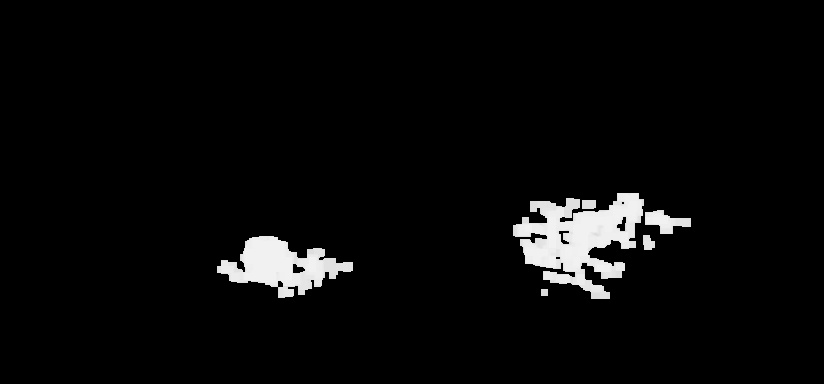
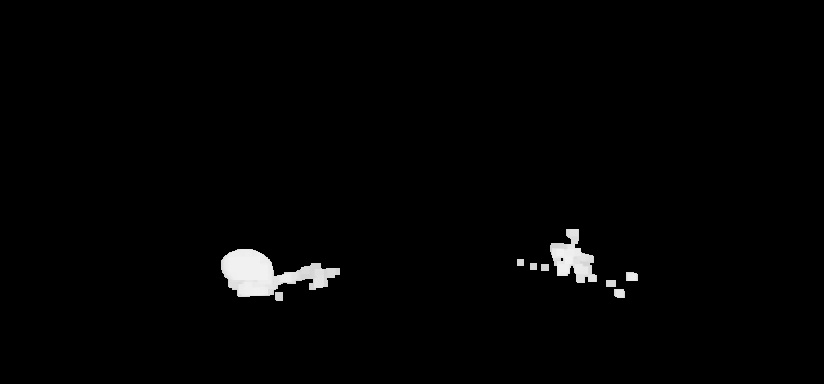
Egg detection

Changed region(s): [[0.6068, 0.5, 0.8495, 0.7812], [0.2427, 0.5938, 0.4248, 0.7812], [0.6371, 0.75, 0.6675, 0.7812]]

diff --git a/eggcounter/__init__.py b/eggcounter/__init__.py
@@ -6,6 +6,7 @@ import numpy
 from matplotlib import pyplot
 
 MIN_CAREA = 700
+#MIN_CAREA = 780
 MAX_CAREA = 2100
 
 IMAGE_SIZE = (1024, 768)
@@ -59,127 +60,60 @@ def alternate(images, original=None):
         else:
             break
 
-def scan_image(filename, export_file=None, debug=False, verbose=False, doors_open=1, min_carea=MIN_CAREA, wsize=(30, 82), hsize=(20, 62), threshold_limits=(210, 255)):
-#def scan_image(filename, debug=False, verbose=False, doors_open=1, min_carea=MIN_CAREA, wsize=(12, 60), hsize=(12, 60)):
+def scan_image(filename, export_file=None, debug=False, verbose=False, min_carea=MIN_CAREA, wsize=(30, 82), hsize=(20, 62), threshold_limits=(210, 255)):
+#def scan_image(filename, debug=False, verbose=False, min_carea=MIN_CAREA, wsize=(12, 60), hsize=(12, 60)):
 
     nest_index = None
 
     if verbose:
-        print('\nMin contour area: %i, width size: %i, %i, height size: %i, %i' % (min_carea, wsize[0], wsize[1], hsize[0], hsize[1]))
+        print('\nParameters: Min contour area: %i, width size: %i, %i, height size: %i, %i' % (min_carea, wsize[0], wsize[1], hsize[0], hsize[1]))
 
+    def threshold(img, limits=(210, 255)):
+        #_, thresh = cv2.threshold(img, 235, 255, cv2.THRESH_TOZERO)
+        _, thresh = cv2.threshold(img, limits[0], limits[1], cv2.THRESH_TOZERO)
+        return thresh
+
+    def erode(img):
+        x = 8
+        k0 = numpy.ones((x, x), numpy.uint8)
+        return cv2.erode(img, k0, iterations=1)
+
+    def dilate(img):
+        x = 7
+        k0 = numpy.ones((x, x), numpy.uint8)
+        return cv2.dilate(img, k0, iterations=1)
+
+    img_original = cv2.imread(filename)
     while True:
-        img = cv2.imread(filename)
-        out = copy.copy(img)
-        img = cv2.cvtColor(img, cv2.COLOR_BGR2GRAY)
+        out = copy.copy(img_original)
+        img = cv2.cvtColor(img_original, cv2.COLOR_BGR2GRAY)
         #imgray = cv2.cvtColor(img,cv2.COLOR_BGR2HSV)
 
+        # Crop image on nest
         img = img[0:IMAGE_SIZE[1] / 2, IMAGE_SUBSTRACT_WIDTH / 2:IMAGE_SIZE[0] - IMAGE_SUBSTRACT_WIDTH / 2]
 
         '''
         #imgray = cv2.medianBlur(imgray, 7)
-
         #cv2.imshow('image', imgray)
         #cv2.waitKey(0)
-
-        #kernel = numpy.ones((200,200),numpy.uint8)
-
-        #erosion = cv2.erode(imgray,kernel,iterations = 1)
-
         #imgSplit = cv2.split(im)
-
-        #ret,thresh = cv2.threshold(img,127,255,cv2.THRESH_TOZERO_INV)
-        #ret,thresh = cv2.threshold(imgray,127,255,1)
-        #ret,thresh = cv2.threshold(imgray,1,50,cv2.THRESH_TOZERO)
-        #ret,thresh = cv2.threshold(imgSplit[1],100,100,cv2.THRESH_TOZERO)
-
-        k0 = numpy.ones((13, 13), numpy.uint8)
-        #k0 = numpy.ones((5, 5), numpy.uint8)
-        k1 = numpy.ones((12, 12), numpy.uint8)
-        #k1 = numpy.ones((5, 5), numpy.uint8)
-        #i1 = cv2.dilate(imgray, kernel, iterations = 1)
-
-        #kernel = cv2.getStructuringElement(cv2.MORPH_ELLIPSE,(5,5))
-        #i2 = cv2.dilate(imgray, kernel, iterations = 1)
-
-        #alternate([ i1, i2 ], img)
-
-        eroded = cv2.erode(imgray, kernel, iterations = 1)
-        dilated = cv2.dilate(imgray, kernel, iterations = 1)
-
-        eroded_dilated = cv2.dilate(eroded, kernel, iterations = 1)
-
         opened = cv2.morphologyEx(imgray, cv2.MORPH_OPEN, kernel)
-
-        alternate([ imgray, eroded, dilated, eroded_dilated, opened ], img)
-        return 0
         '''
 
         #alternate([ cv2.erode(imgray, k0, iterations=1), imgray ])
 
-        '''
-        doors_open = False
-
-        if doors_open:
-            # Porte de droite ouverte:
-            ret, thresh = cv2.threshold(imgray, 100, 100, cv2.THRESH_TOZERO)
-        else:
-            # 2 portes ouvertes:
-            #ret, thresh = cv2.threshold(imgray, 80, 200, cv2.THRESH_TOZERO_INV)
-            ret, thresh = cv2.threshold(imgray, 80, 90, cv2.THRESH_TOZERO_INV)
-            if verbose:
-                print('Highlight actived !')
-        '''
-
-        def threshold(img, limits=(210, 255)):
-            #_, thresh = cv2.threshold(img, 235, 255, cv2.THRESH_TOZERO)
-            _, thresh = cv2.threshold(img, limits[0], limits[1], cv2.THRESH_TOZERO)
-            return thresh
-
-        def erode(img):
-            x = 8
-            k0 = numpy.ones((x, x), numpy.uint8)
-            return cv2.erode(img, k0, iterations=1)
-
-        def dilate(img):
-            x = 7
-            k0 = numpy.ones((x, x), numpy.uint8)
-            return cv2.dilate(img, k0, iterations=1)
-
         
-        '''
-        imgray = cv2.erode(imgray, k0, iterations=1)
-        imgray = cv2.dilate(imgray, k1, iterations=1)
-        '''
-
         img = threshold(img, threshold_limits)
+        #img = threshold(img, (230, 255))
 
         img = erode(img)
         img = dilate(img)
 
+        #cv2.imwrite('debug.jpg', img)
+        #return 0, None
 
-        thresh = img
-
-        #_, thresh = cv2.threshold(imgray, 210, 255, cv2.THRESH_TOZERO)
-
-        #ret, thresh = cv2.threshold(imgray, 10, 100, cv2.THRESH_TOZERO_INV)
-
-        #ret,thresh = cv2.threshold(imgray,150,250,cv2.THRESH_)
-
-        #element = cv2.getStructuringElement(cv2.MORPH_ELLIPSE,(30,30))
-
-
-        # Otsu's thresholding after Gaussian filtering
-        #blur = cv2.GaussianBlur(imgray,(5,5),0)
-        #ret3,thresh = cv2.threshold(blur,0,255,cv2.THRESH_BINARY+cv2.THRESH_OTSU)
-
-        #print 'Image gray'
-        #if verbose:
-        #    #cv2.imshow('image', thresh)
-        #    cv2.imshow('image', imgray)
-        #    cv2.waitKey(0)
-
-        #out = img
-        #out = thresh
+        if debug:
+            cv2.imwrite('debug.jpg', img)
 
         egg_count = 0
         index = 0
@@ -193,14 +127,20 @@ def scan_image(filename, export_file=None, debug=False, verbose=False, doors_ope
         method = cv2.CHAIN_APPROX_SIMPLE
         #method = cv2.CHAIN_APPROX_TC89_L1
         #method = cv2.CHAIN_APPROX_TC89_KCOS
-        contours, h = cv2.findContours(thresh, mode, method)
+        contours, h = cv2.findContours(img, mode, method)
 
         #print('contour:', len(contours))
-        if len(contours) > 15: #04
-            #print('risque de foirage !')
+        contour_limit = 15
+        approx_poly_length = (5, 21)
+
+        #contour_limit = 18
+        if len(contours) > contour_limit: #04
+            if debug:
+                print('Contour length (%i) > limit (%i), thresholds: %s' % (len(contours), contour_limit, str(threshold_limits)))
             mint, maxt = threshold_limits
             mint += 10
-            if mint >= 250:
+            #mint += 4
+            if mint >= 255:
                 break
 
             threshold_limits = (mint, maxt)
@@ -209,12 +149,13 @@ def scan_image(filename, export_file=None, debug=False, verbose=False, doors_ope
         for cnt in contours:
             approx = cv2.approxPolyDP(cnt, 0.01 * cv2.arcLength(cnt, True), True)
             
-            if not (5 < len(approx) < 21):
+            if not (approx_poly_length[0] < len(approx) < approx_poly_length[1]):
+                if verbose:
+                    print("[Skip] Approx poly length (%i) not in range (%s) !" % (len(approx), str(approx_poly_length)))
                 continue
 
             ellipse =  cv2.fitEllipse(cnt)
-            h = ellipse[1][0]
-            w = ellipse[1][1]
+            h, w = ellipse[1][0], ellipse[1][1]
 
             #if abs(h-w) < 2:
             #   print 'paf'
@@ -224,30 +165,46 @@ def scan_image(filename, export_file=None, debug=False, verbose=False, doors_ope
             #print "circle"
             #if 1 < h < 100 and 1 < w < 100:
             #if 20 < h < 100 and 20 < w < 100:
-            if not (hsize[0] < h < hsize[1] and wsize[0] < w < wsize[1]):
+            #wsize = (30, 117);
+            if not (wsize[0] <= w <= wsize[1] and hsize[0] <= h <= hsize[1]):
                 if verbose:
-                    print('Size not in range (w:%i, h:%i, range -> w:%i-%i, h:%i-%i)' % (w, h, wsize[0], wsize[1], hsize[0], hsize[1]))
+                    print('[Skip] Size (%i, %i) not in range (w:%i-%i, h:%i-%i))' % (w, h, wsize[0], wsize[1], hsize[0], hsize[1]))
                 continue
+
+            # Potentiel egg area
+            import math
+            ellipse_area = math.pi * w * h
+            #if not (2000 < ellipse_area < 6000):
+            #    #if verbose:
+            #    print('[Skip] Ellipse area (%i) not in range (%i-%i) !' % (ellipse_area, 0, 0))
+            #    continue
 
             #if len(approx) != 16:
             #    continue
             #print len(approx)
             #print cnt
-            x,y,w,h = cv2.boundingRect(cnt)
+            x, y, w, h = cv2.boundingRect(cnt)
 
-            adist = cv2.arcLength(cnt, True)
+            adist = cv2.arcLength(cnt, closed=True)
+            #print(adist)
+            #if adist > 300:
+            #    continue
+ 
             carea = cv2.contourArea(cnt)
-            #if verbose:
-            #    print('Egg:%i, len approx: %i, height: %i, width: %i, aDist:%i, contour area:%i' % (index, len(approx), h, w, adist, carea), end=' ')
+
+            #print(carea, ellipse_area)
 
             #index += 1
+            #MAX_CAREA = 2900
             if not (MIN_CAREA < carea < MAX_CAREA):
                 if verbose:
-                    print('Contour area (%i) not in range (min:%i) !' % (carea, min_carea))
+                    print('[Skip] Contour area (%i) not in range (%i-%i) !' % (carea, MIN_CAREA, MAX_CAREA))
                 continue
 
             if verbose:
                 print('[found]')
+
+                print('Egg index:%i, len approx: %i (limit: %s), height: %i, width: %i, aDist:%i, contour area:%i' % (index, len(approx), str((5, 21)), h, w, adist, carea))
 
             def drawInfo(out, x, y, x_offset):
 
@@ -273,14 +230,10 @@ def scan_image(filename, export_file=None, debug=False, verbose=False, doors_ope
 
             egg_count += 1
 
-
-            #else:
-                #cv2.drawContours(img,[cnt],0,(0,255,255),-1)
-
         if debug:
             #cv2.imshow('im',imgray)
 
-            alternate([ imgray, out, thresh ], img)
+            alternate([ img, out, img_original ], img)
 
             cv2.destroyAllWindows()
 
@@ -318,13 +271,13 @@ if __name__ == '__main__':
         if args['--test-threshold']:
             test_threshold(filename)
         else:
-            m = re.search('([0-9]+)_([0-9]+)_*((?:[-a-z0-9]*).*)\.jpg', filename)
+            m = re.search('([0-9]+)_([0-9]+)_*((?:[-a-z0-9]*).*)\.(jpg|png)', filename)
             if not m:
                 continue
 
             total += 1
 
-            index, count, flags = m.groups()
+            index, count, flags, _ = m.groups()
 
             count = int(count)
 
@@ -346,18 +299,13 @@ if __name__ == '__main__':
 
             carea = int(args['--contour-area']) if args['--contour-area'] else MIN_CAREA
 
-            #if 'highlight' in flags:
-            #    egg_count = scan_image(filename, doors_open=2, debug=args['--debug'], verbose=args['--verbose'], min_carea=carea)
-            #else:
-            #    egg_count = scan_image(filename, debug=args['--debug'], verbose=args['--verbose'], min_carea=carea)
-            '''
-            for threshold_limits in ( (210, 255), (235, 255) ):
-                egg_count = scan_image(filename, threshold_limits=threshold_limits, debug=args['--debug'], verbose=args['--verbose'], min_carea=carea)
-                if egg_count:
-                    break
-            '''
-
-            egg_count, nest_index = scan_image(filename, debug=args['--debug'], verbose=args['--verbose'], min_carea=carea)
+            if False:
+                for threshold_limits in ( (210, 255), (235, 255) ):
+                    egg_count, nest_index = scan_image(filename, threshold_limits=threshold_limits, debug=args['--debug'], verbose=args['--verbose'], min_carea=carea)
+                    if egg_count:
+                        break
+            else:
+                egg_count, nest_index = scan_image(filename, debug=args['--debug'], verbose=args['--verbose'], min_carea=carea)
 
             if egg_count != count:
                 if egg_count > count:
@@ -365,10 +313,10 @@ if __name__ == '__main__':
                 else:
                     missed += count - egg_count
 
-                if args['--verbose']:
-                    print('[Error] %i egg(s) found !' % (egg_count))
-                else:
-                    print('[Error]')
+                #if args['--verbose']:
+                print('[Error] %i egg(s) found !' % (egg_count))
+                #else:
+                #    print('[Error]')
             else:
                 if nest_index and nest_index != nest:
                     badnest += 1
@@ -376,7 +324,7 @@ if __name__ == '__main__':
                 else:
                     print('[Ok]')
 
-                good += 1
+                    good += 1
 
     print("Result: %i%% (%i/%i)" % (round(100 / (float(total) / float(good)) if good > 0 else 0), good, total))
     
